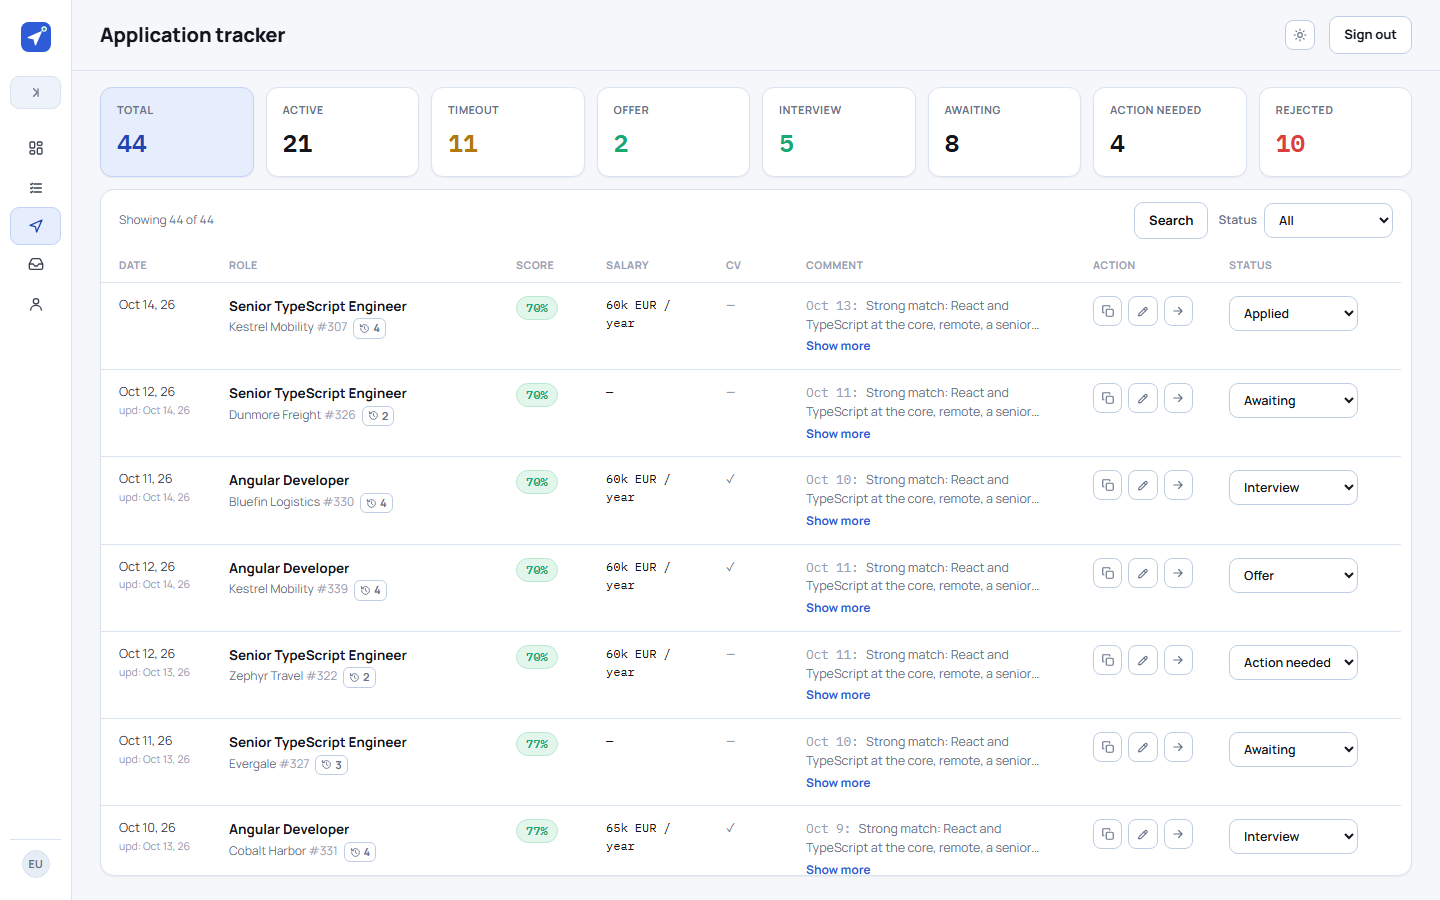
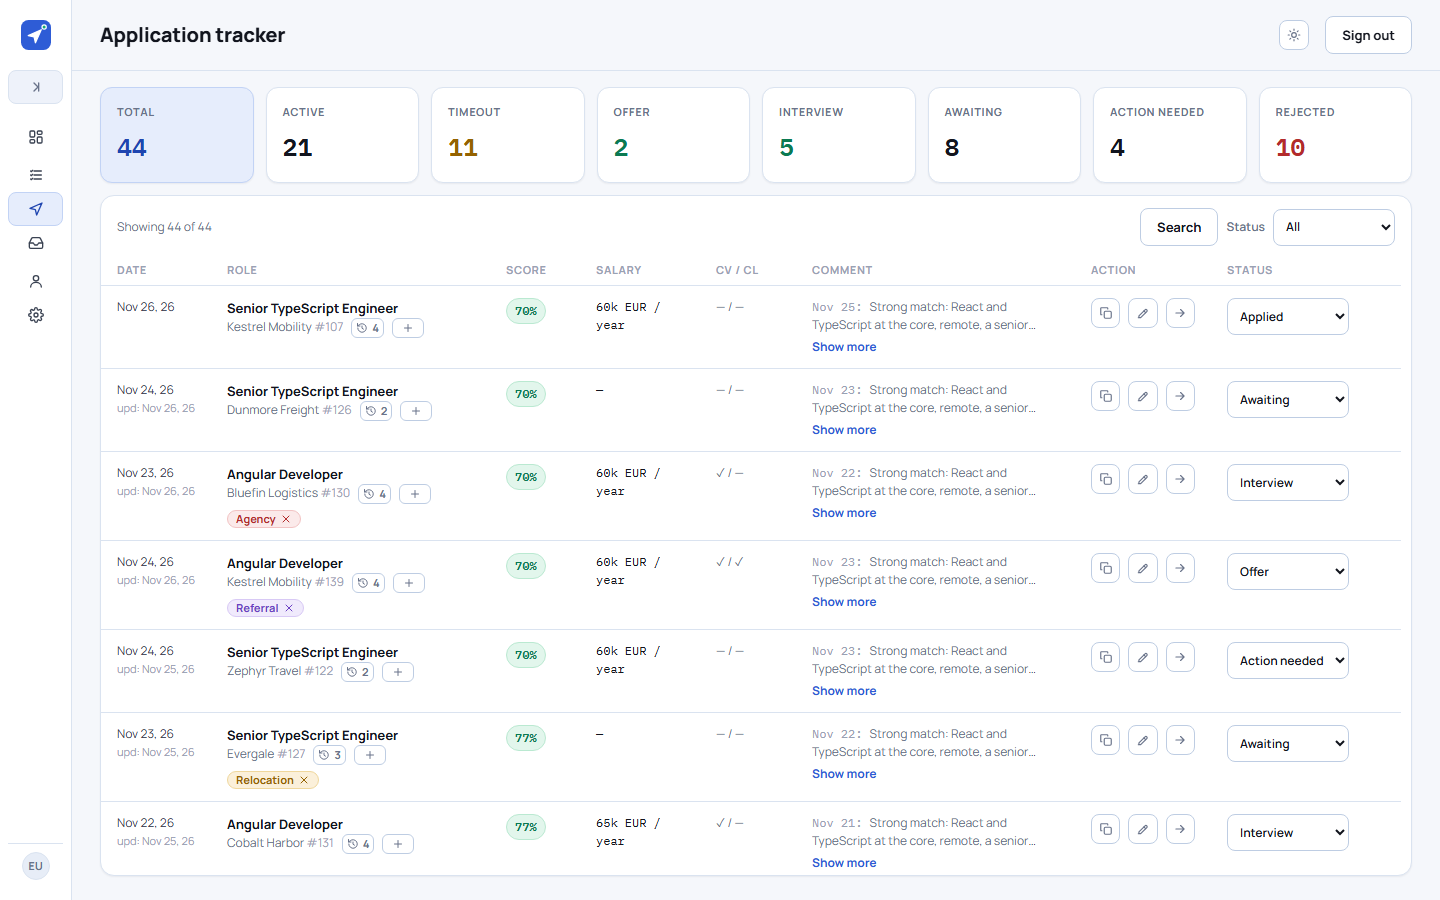
README: screenshots retaken, the features since October
The screenshots show tags, the CV / CL and Salary columns and the Settings
page; the README names tags, search by id, the cover letter flag, overruling
the analyzer's skip and the Settings page.

diff --git a/README.md b/README.md
@@ -19,22 +19,22 @@ review fast. New parts come as I need them — see the [roadmap](#roadmap).
 <details>
 <summary>More screens</summary>
 
-**Analyzed vacancies** — score, recommendation and the review, with one-click triage.
+**Analyzed vacancies** — score, recommendation and the review, tags, and one-click triage.
 
 <picture>
   <source media="(prefers-color-scheme: dark)" srcset="docs/screenshots/vacancies-dark.png">
   <img alt="The vacancies table" src="docs/screenshots/vacancies-light.png">
 </picture>
 
-**One vacancy** — the status history, the posting, comments from me and from Claude.
+**One vacancy** — the status history, the posting, tags, comments from me and from Claude.
 
 <picture>
   <source media="(prefers-color-scheme: dark)" srcset="docs/screenshots/vacancy-dark.png">
   <img alt="A vacancy page" src="docs/screenshots/vacancy-light.png">
 </picture>
 
-**Application tracker** — every application by pipeline stage, with the ones gone quiet
-for 30 days.
+**Application tracker** — every application by pipeline stage, with the salary, whether a
+tailored CV and a cover letter went out, and the ones gone quiet for 30 days.
 
 <picture>
   <source media="(prefers-color-scheme: dark)" srcset="docs/screenshots/applications-dark.png">
@@ -92,17 +92,23 @@ feed the app instead.
 
 - **Dashboard** — counters, a funnel from logged to interview, where the rest dropped
   out, and the top recommended vacancies not yet reviewed.
-- **Vacancy tables** — infinite scroll, search, status filters, one-click triage, and
-  a company's other vacancies in a modal.
-- **Application tracker** — pipeline stages, salary and tailored-CV notes, comments,
-  and a 30-day timeout for applications nobody answered.
+- **Vacancy tables** — infinite scroll, search by company, title or `#id`, status
+  filters, one-click triage, and a company's other vacancies, with their salaries, in a
+  modal.
+- **Tags** — in ten colours, added by hand on any row or vacancy page, or by Claude
+  with its analysis.
+- **Overruling the analyzer** — a vacancy Claude filtered out can still be applied to or
+  saved from its page.
+- **Application tracker** — pipeline stages, salary, tailored-CV and cover-letter
+  flags, comments that keep their line breaks, and a 30-day timeout for applications
+  nobody answered.
 - **MCP server** — tools so Claude can save vacancies scored in a chat, read the
   queue, submit analyses, record applications and move statuses. Over stdio, or Streamable HTTP with OAuth 2.1.
 - **REST API** — documented with Swagger UI; every route closed unless marked
   otherwise.
 - **Sign-in** — Google, LinkedIn or a passkey; sign-up limited to an allowlist.
 - **Several users** — each sees only their own vacancies; per-user API keys for n8n and
-  MCP.
+  MCP. Passkeys, API keys and the apps connected over MCP are managed on a Settings page.
 - Light and dark theme; works on a phone.
 
 ## Architecture
@@ -114,7 +120,7 @@ An npm-workspaces monorepo:
 | [`packages/core`](packages/core/README.md) | The domain layer and the only database client: Prisma schema and migrations, the services, the status rules, auth (Better Auth) and API keys. |
 | `apps/api` | NestJS REST API (`/api/v1`) for the web app and n8n. |
 | `apps/mcp` | The MCP server: the same services as tools, over stdio and Streamable HTTP. |
-| `apps/web` | React SPA: dashboard, tables, the vacancy page, the inbox, the profile. |
+| `apps/web` | React SPA: dashboard, tables, the vacancy page, the inbox, settings. |
 
 ```
 n8n ─────────▶ apps/api ◀── apps/web
@@ -184,7 +190,7 @@ The repo is set up so an AI agent can work on it for weeks without losing the th
   tailoring a resume from a vacancy page.
 - **Collectors inside the app**, instead of hand-built n8n workflows.
 - **A company exclusion list** and company aliases.
-- A UI for the status journal, per-column filters, live updates.
+- A UI for the status journal, per-column filters (a tag too), live updates.
 
 The full list: [`docs/backlog.md`](docs/backlog.md).
 
